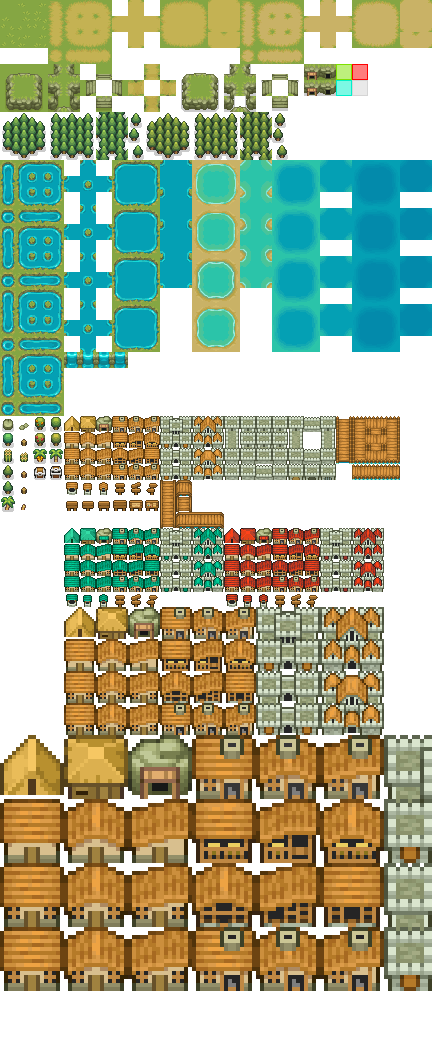
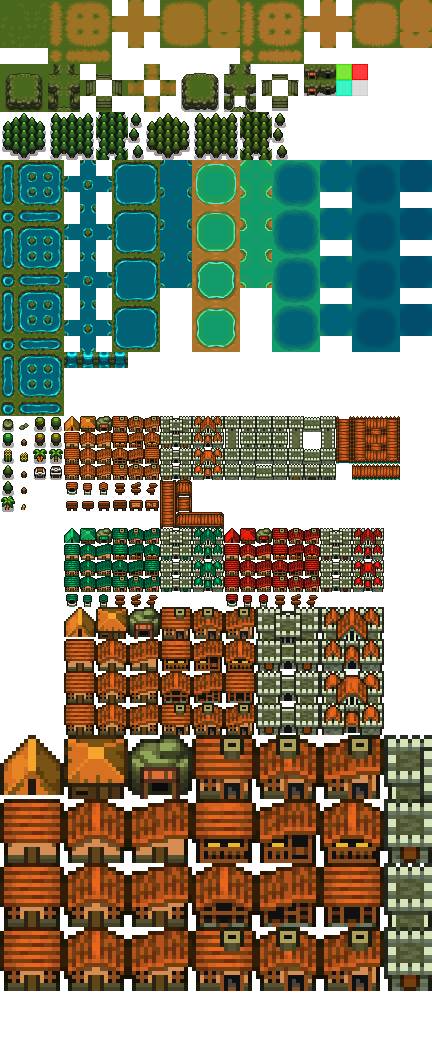
Ajustes visuales y funcionalidades varias
-Cambiadas texturas en algunos mapas
-Puesto el filtro en todas las escenas accesibles
-Quitado funcionalidades descartadas anteriormente
- Cambiada la logica del ghostSlime

diff --git a/src/ghostSlime.js b/src/ghostSlime.js
@@ -104,13 +104,13 @@ export default class ghostSlime extends Phaser.GameObjects.Sprite {
             if(this.scene.turn=="enemy"){
                 //console.log(this.anims.currentAnim.key);
                 //console.log(this.playerPreview.anims);
-                this.playerPreview.play({key:this.anims.currentAnim.key,repeat:-1});
-                this.container.setVisible(!this.container.visible);
+                /* this.playerPreview.play({key:this.anims.currentAnim.key,repeat:-1});
+                this.container.setVisible(!this.container.visible); */
             }
-            if(this.scene.turn=="player" && this.scene.attackArea &&this.scene.physics.overlap(this.scene.attackArea, this.body)){ 
+            /* if(this.scene.turn=="player" && this.scene.attackArea &&this.scene.physics.overlap(this.scene.attackArea, this.body)){ 
                 this.onHit(1);
                 this.emit("enemy_hitted");
-            };
+            }; */
         });
 
         this.scene.input.on('pointerdown',this.player_tp,this);//listener para tp de player
@@ -134,7 +134,7 @@ export default class ghostSlime extends Phaser.GameObjects.Sprite {
     }
 
     checkHit(){
-        if(this.scene.physics.overlap(this.scene.attackArea, this.body))this.onHit(this.scene.attackEffect.dmg)
+        if(this.scene.physics.overlap(this.scene.attackArea, this.body) && this.scene.isPointInArc(this.x,this.y,this.scene.attackArea))this.onHit(this.scene.attackEffect.dmg)
     }
 
     onHit(dmg){
@@ -504,6 +504,16 @@ export default class ghostSlime extends Phaser.GameObjects.Sprite {
         },[],this);
     }
 
+    facePlayerAngle(){
+        let angle = Phaser.Math.Angle.Between(this.x,this.y,this.scene.player.x,this.scene.player.y);
+        let degrees= Phaser.Math.RadToDeg(angle);
+        degrees=(degrees + 360) % 360; // nomalizar
+        if(degrees>45 && degrees <135) this.facing="down"
+        else if(degrees>135 && degrees <225) this.facing="left"
+        else if (degrees>225 && degrees <315) this.facing="up"
+        else this.facing="right"
+    }
+
     /**
      * Gestiona movimiento de teletransporte
      */
@@ -588,11 +598,13 @@ export default class ghostSlime extends Phaser.GameObjects.Sprite {
                 this.body.setVelocityY(0);
                 if(this.stopped==false){
                     this.stopped=true;
+                    this.facePlayerAngle();
                     this.scene.events.emit("enemy_turn_end");
                 } 
             }else{
                 this.hasMoved=true;
             }
+            
         }
     }
 

diff --git a/src/world.js b/src/world.js
@@ -1,6 +1,8 @@
 import Player from './player_warrior.js';
 import Phaser from 'phaser';
 import gen_mazmorra from './gen_mazmorra.js'; 
+import GameShaderCRT from "./shaders/crtShader.js"; 
+
 
 export default class World extends Phaser.Scene {
     map;
@@ -96,9 +98,9 @@ export default class World extends Phaser.Scene {
 
         // Marcador del cursor
         const tileSize = 48;
-        this.marker = this.add.graphics();
+        /* this.marker = this.add.graphics();
         this.marker.lineStyle(2, 0xFFFFFF, 1);
-        this.marker.strokeRect(0, 0, tileSize, tileSize);
+        this.marker.strokeRect(0, 0, tileSize, tileSize); */
 
         this.mazmorras=this.datosPlayer.mazmorras;
 
@@ -137,6 +139,14 @@ export default class World extends Phaser.Scene {
 
         this.reproducirMusica();
 
+        this.setCrtShader();
+
+    }
+
+    setCrtShader(){
+        let cam = this.cameras.main;
+        cam.setPostPipeline(GameShaderCRT);
+        var effect = cam.postFX.addVignette(0.5, 0.5, 0.95, 0.40);
     }
 
     funCastillo() {
@@ -253,7 +263,7 @@ export default class World extends Phaser.Scene {
             })
             .setOrigin(0.5);
     
-        const cerrarCuentoBtn = this.add.text(centerX, centerY + 150, 'Cerrar cuento', {
+        const cerrarCuentoBtn = this.add.text(centerX, centerY + 150, 'Saltar historia', {
             fontSize: '14px',
             backgroundColor: '#222',
             color: '#fff',
@@ -553,11 +563,11 @@ export default class World extends Phaser.Scene {
         const gridOffsetX = 0, gridOffsetY = -1, mouseOffsetX = -1, mouseOffsetY = 0, snapInterval = 3;
         const pointerTileX = Phaser.Math.Snap.To(this.map.worldToTileX(worldPoint.x) + mouseOffsetX, snapInterval) + gridOffsetX;
         const pointerTileY = Phaser.Math.Snap.To(this.map.worldToTileY(worldPoint.y) + mouseOffsetY, snapInterval) + gridOffsetY;
-        this.marker.x = this.map.tileToWorldX(pointerTileX);
-        this.marker.y = this.map.tileToWorldY(pointerTileY);
+        /* this.marker.x = this.map.tileToWorldX(pointerTileX);
+        this.marker.y = this.map.tileToWorldY(pointerTileY); */
     
         const playerTileX = this.map.worldToTileX(this.player.x);
-        const playerTileY = this.map.worldToTileY(this.player.y);
+        const playerTileY = this.map.worldToTileY(this.player.y); 
     
         // ✅ Casa del Boss: siempre cambia de escena si la pisa
         const tileBoss = this.casaBoss_layer.getTileAt(playerTileX, playerTileY);

diff --git a/src/player_warrior.js b/src/player_warrior.js
@@ -624,7 +624,12 @@ export default class Player_warrior extends Phaser.GameObjects.Sprite {
             this.checkedHit=true;
         } */
         if(area){
-            if(this.scene.physics.overlap(area, this.body))this.onHit(this.scene.attackEffect.dmg)
+            if(this.scene.physics.overlap(area, this.body)){
+                if(area.type=="Arc"){
+                    if(this.scene.isPointInArc(this.x,this.y,area)) this.onHit(this.scene.attackEffect.dmg)
+                }
+                 else this.onHit(this.scene.attackEffect.dmg)
+            }
             //this.checkedHit=true;
         }
     }
@@ -677,7 +682,7 @@ export default class Player_warrior extends Phaser.GameObjects.Sprite {
         super.preUpdate(t, dt);
         if(this.scene.turn=="player"){
             this.physics_combat_movement(t);
-            this.checkInDangerZone()
+            //this.checkInDangerZone()
         }
         this.container.x=this.scene.pointerGridX;
         this.container.y=this.scene.pointerGridY;

diff --git a/src/arenaOrc.js b/src/arenaOrc.js
@@ -102,7 +102,7 @@ export default class orc2 extends Phaser.GameObjects.Sprite {
         {   
             /* this.x-=this.scene.container.x;this.y-=this.scene.container.y;
             this.scene.container.add(this); */
-            if(this.scene.turn=="enemy"){
+            /* if(this.scene.turn=="enemy"){
                 console.log(this.anims.currentAnim.key);
                 console.log(this.playerPreview.anims);
                 this.playerPreview.play({key:this.anims.currentAnim.key,repeat:-1});
@@ -111,7 +111,7 @@ export default class orc2 extends Phaser.GameObjects.Sprite {
             if(this.scene.turn=="player" && this.scene.attackArea &&this.scene.physics.overlap(this.scene.attackArea, this.body)){ 
                 this.onHit(1);
                 this.emit("enemy_hitted");
-            };
+            }; */
         });
 
         this.scene.input.on('pointerdown',this.player_tp,this);//listener para tp de player

diff --git a/src/levelBoss.js b/src/levelBoss.js
@@ -1,6 +1,8 @@
 
 import Player from './player_warrior.js';
 import Phaser from 'phaser';
+import GameShaderCRT from "./shaders/crtShader.js"; 
+
 
 export default class levelBoss extends Phaser.Scene {
 
@@ -50,8 +52,15 @@ export default class levelBoss extends Phaser.Scene {
         this.marker = this.add.graphics();
         this.marker.lineStyle(2, 0xFFFFFF, 1);
         this.marker.strokeRect(0, 0, tileSize, tileSize);
+
+        this.setCrtShader();
     }
-    
+    setCrtShader(){
+        let cam = this.cameras.main;
+        cam.setPostPipeline(GameShaderCRT);
+        var effect = cam.postFX.addVignette(0.5, 0.5, 0.95, 0.40);
+    }
+
     update(time, delta)
     {
 

diff --git a/src/level3.js b/src/level3.js
@@ -463,11 +463,6 @@ export default class Level3 extends Phaser.Scene {
 
     }
 
-    initShaders(){
-        let cam = this.cameras.main;
-        //this.setCrtShader();
-    }
-
     async checkEnemyHit(){
         //this.orc.checkHit();
         this.objetosDestructibles.children.iterate((obj) => {

diff --git a/src/game.js b/src/game.js
@@ -37,7 +37,7 @@ let config = {
         default: 'arcade',
         arcade: {
             gravity: { y: 0 },
-            debug: true
+            debug: false
         }
     },
     pipeline: [GameShaderCRT,GameShaderRetro,GameShaderGBA,GameShaderPixel]
